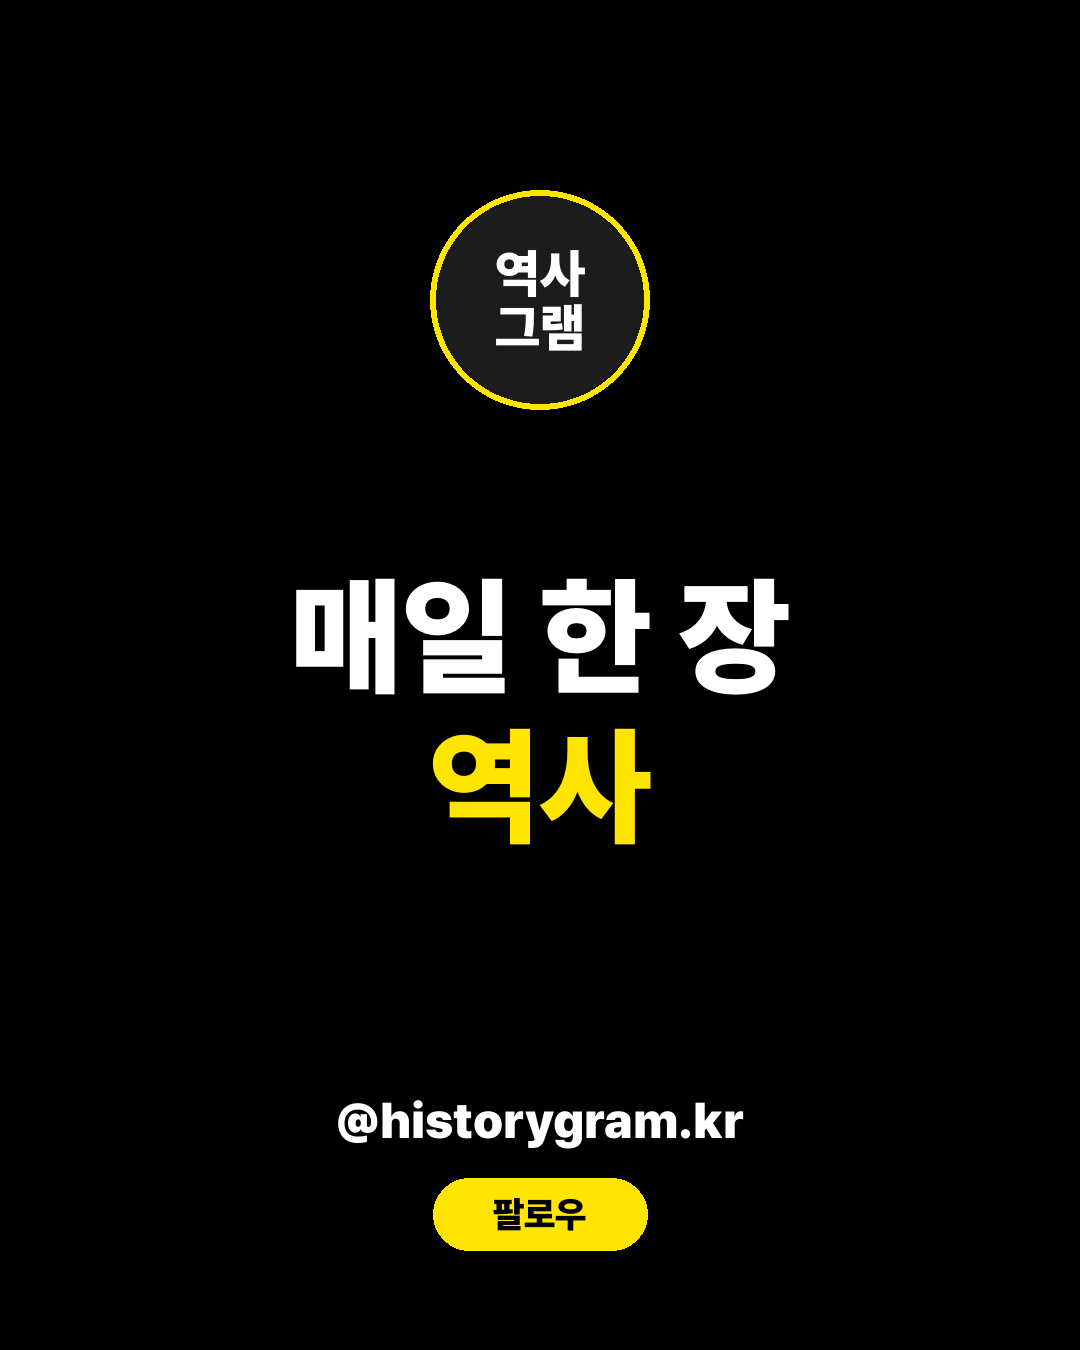
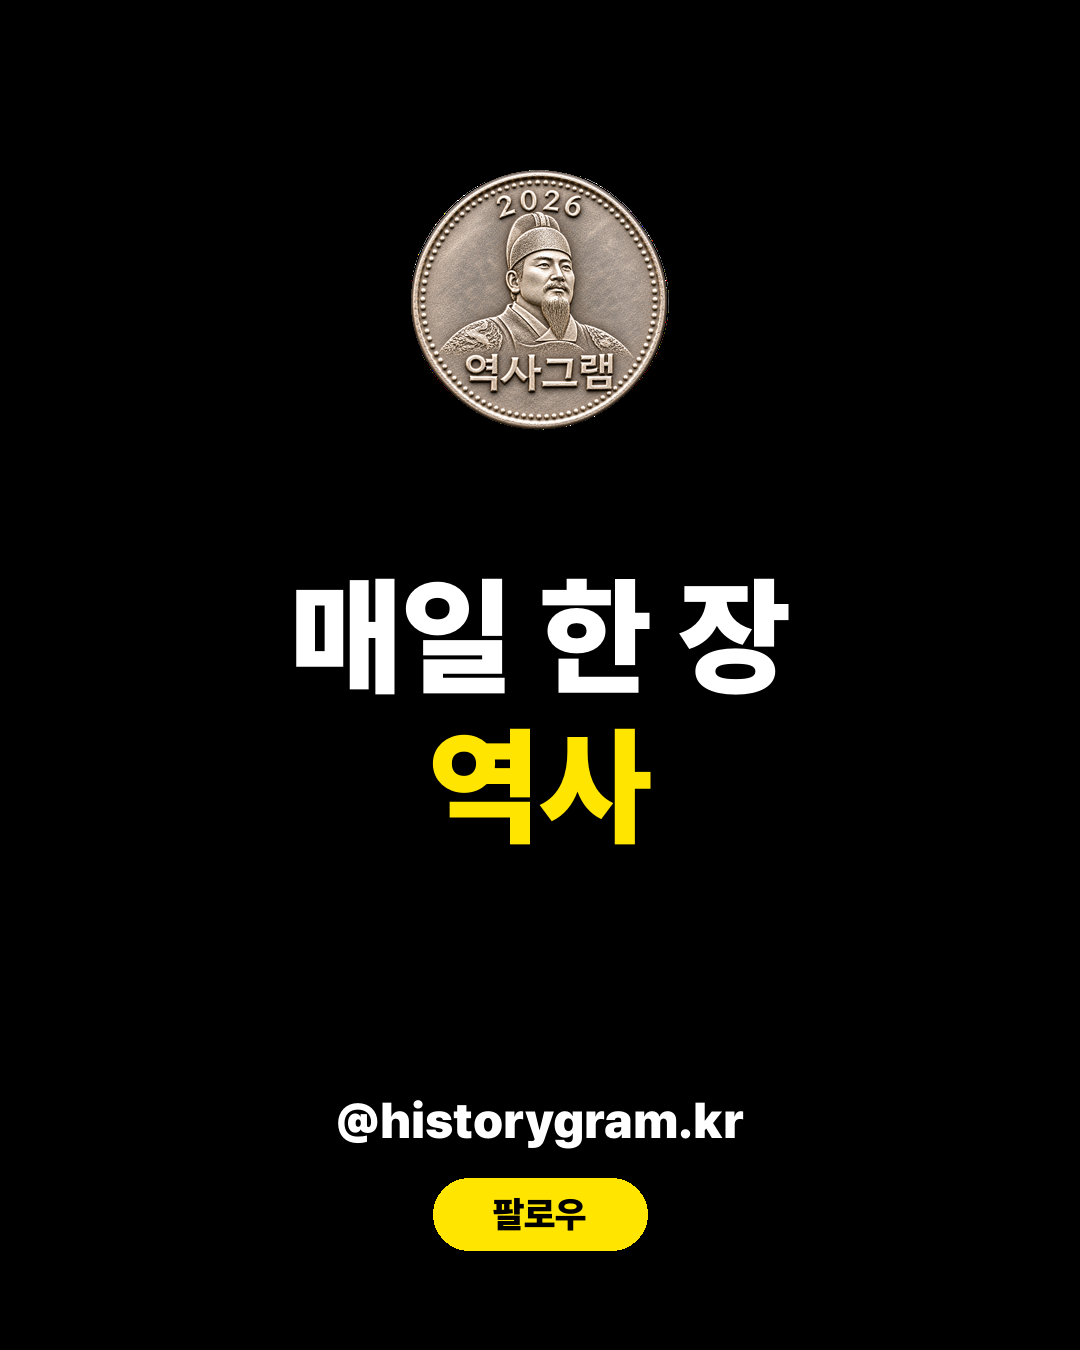
역사그램 팔로우 카드에 동전 심볼 적용
Claude-Session: https://claude.ai/code/session_013eU9urg7CNnbJUZejUJ2U2

Changed region(s): [[0.3667, 0.1244, 0.6417, 0.3422]]

diff --git a/drafts/historygram_ep01_kimmandeok/render_06.py b/drafts/historygram_ep01_kimmandeok/render_06.py
@@ -38,7 +38,7 @@ def icon(size):
 
 
 img = Image.new("RGBA", (W, H), (0, 0, 0, 255))
-img.alpha_composite(icon(220), ((W - 220) // 2, 190))
+img.alpha_composite(icon(260), ((W - 260) // 2, 170))
 d = ImageDraw.Draw(img)
 
 y = 560
